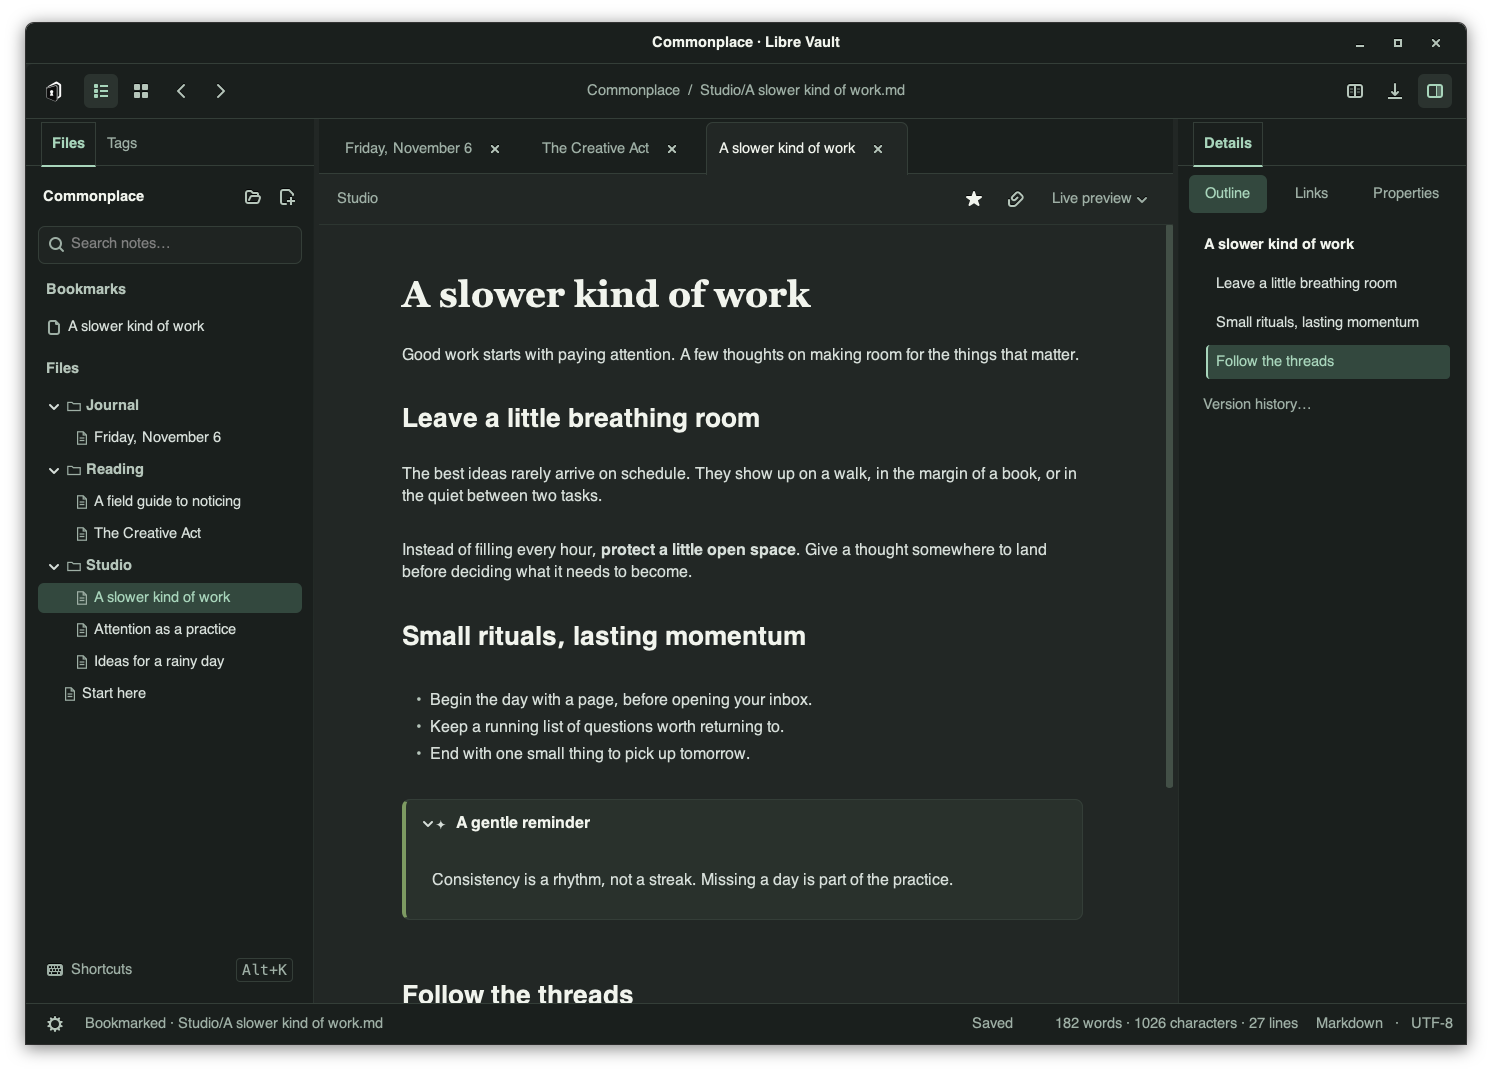
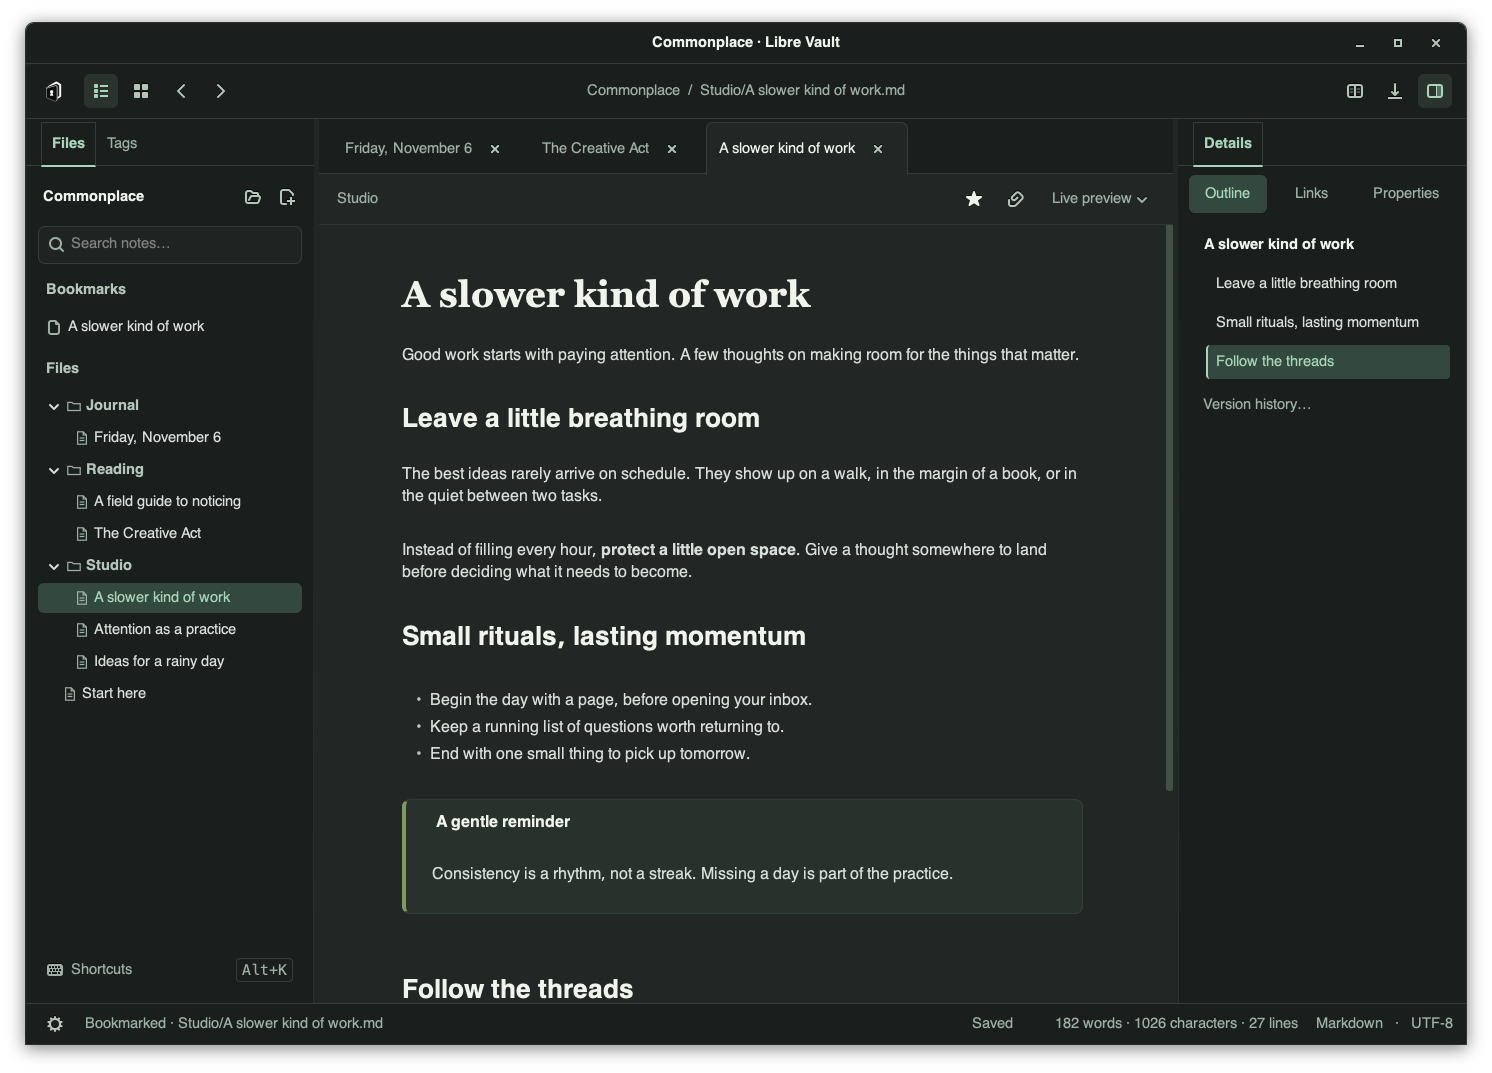
Refine callout titles and refresh UI review captures

Changed region(s): [[0.2775, 0.7996, 0.6475, 0.8304], [0.2775, 0.8919, 0.4316, 0.9534], [0.3083, 0.7381, 0.4008, 0.7689]]

diff --git a/librevault/style.css b/librevault/style.css
@@ -302,7 +302,9 @@ button.icon-button { border-radius: 6px; padding: 5px; }
 .details-combo { margin: 8px 12px 4px; }
 .details-combo button { background: @selected; border-color: transparent; color: @accent; }
 .command-results { padding-right: 8px; }
-.callout expander > title { padding: 2px 0 6px; }
+.callout expander > title { padding: 2px 0; }
+.callout expander > title > arrow:checked { color: transparent; -gtk-icon-shadow: none; }
+.callout expander:hover > title > arrow { color: @soft; }
 .editor-preview .callout expander { background: @raised; }
 .editor-preview .callout label { background: transparent; }
 

diff --git a/librevault/reading.py b/librevault/reading.py
@@ -94,15 +94,8 @@ enable_safe_html(MARKDOWN)
 
 CALLOUT_RE = re.compile(r'^\[!([^\]\n]+)\]([+-])?[ \t]*(.*)$')
 CALLOUT_STYLES = {
-    'note': ('📝', 'callout-note'),
-    'info': ('ℹ', 'callout-info'),
-    'tip': ('✦', 'callout-tip'),
-    'warning': ('⚠', 'callout-warning'),
-    'danger': ('⛔', 'callout-danger'),
-    'example': ('✎', 'callout-example'),
-    'quote': ('❝', 'callout-quote'),
-    'todo': ('☑', 'callout-todo'),
-    'bug': ('🐞', 'callout-bug'),
+    kind: f'callout-{kind}'
+    for kind in ('note', 'info', 'tip', 'warning', 'danger', 'example', 'quote', 'todo', 'bug')
 }
 CALLOUT_ALIASES = {
     'hint': 'tip', 'important': 'tip',
@@ -912,23 +905,18 @@ class ReadingView(Gtk.ScrolledWindow):
     def _install_callout(self, frame, box, matched):
         raw = matched.group(1).strip()
         kind = CALLOUT_ALIASES.get(raw.lower(), raw.lower())
-        icon, css = CALLOUT_STYLES.get(kind, ('•', 'callout-generic'))
+        css = CALLOUT_STYLES.get(kind, 'callout-generic')
         title = matched.group(3).strip() or raw.title()
-        header = Gtk.Box(spacing=10)
-        icon_label = Gtk.Label(label=icon)
-        icon_label.get_style_context().add_class('callout-icon')
-        icon_label.get_accessible().set_name(f'{kind} callout')
         title_label = Gtk.Label(label=title, xalign=0)
         title_label.get_style_context().add_class('callout-title')
         attributes = Pango.AttrList()
         attributes.insert(Pango.attr_weight_new(Pango.Weight.BOLD))
         title_label.set_attributes(attributes)
-        header.pack_start(icon_label, False, False, 0)
-        header.pack_start(title_label, False, False, 0)
         expander = Gtk.Expander()
         expander.set_expanded(matched.group(2) != '-')
-        expander.set_label_widget(header)
+        expander.set_label_widget(title_label)
         expander.get_accessible().set_name(title)
+        expander.get_accessible().set_description(f'{kind} callout')
         style = frame.get_style_context()
         style.add_class('callout')
         style.add_class(css)

diff --git a/tests/test_diagrams_math_media.py b/tests/test_diagrams_math_media.py
@@ -268,9 +268,8 @@ class DiagramReadingTests(unittest.TestCase):
         self.assertFalse(any('Could not render' in label for label in labels))
         frames = [widget for widget in widgets if isinstance(widget, Gtk.Frame)]
         for kind in CALLOUT_STYLES:
-            self.assertTrue(any(f'callout-{kind}' in widget.get_style_context().list_classes()
+            self.assertTrue(any(CALLOUT_STYLES[kind] in widget.get_style_context().list_classes()
                                 for widget in frames), kind)
-            self.assertIn(CALLOUT_STYLES[kind][0], labels)
             self.assertIn(f'{kind.title()} title', labels)
         expanders = {widget.get_accessible().get_name(): widget
                      for widget in widgets if isinstance(widget, Gtk.Expander)}

diff --git a/docs/ui-overhaul/README.md b/docs/ui-overhaul/README.md
@@ -18,13 +18,21 @@ New workspaces default to 12pt note text in a 680px writing column; stored prefe
 
 ## Validation
 
-The first validation pass ran 524 tests through the private Broadway display: 515 passed, one skipped for unavailable language fonts, and eight failed or errored. All eight also fail on the unchanged base revision in the same environment: three filesystem-monitor checks, the trusted-plugin opt-in cancel check, the launcher interpreter/dependency check, the narrow table dialog check, case-sensitive attachment resolution on this case-insensitive filesystem, and the custom-font chooser check. The base additionally fails two compact-panel checks that this overhaul fixes.
+The latest full validation ran 528 tests through the private Broadway display: 518 passed, one skipped for unavailable language fonts, and nine failed or errored. Eight failures/errors also occur in the unchanged base suite: three filesystem-monitor checks, trusted-plugin opt-in cancel, the launcher interpreter/dependency check, the narrow table dialog, case-sensitive attachment resolution on this case-insensitive filesystem, and the custom-font chooser. The ninth is an intermittent GTK hit-testing abort, reproduced with the same GTK byte-index error in one of five targeted runs on both the base and overhaul. The base additionally fails two compact-panel checks that this overhaul fixes.
 
-The focused layout, command, preference, reading, memory, navigation, and test-runner checks pass. The GUI smoke test passes. Native macOS and Linux X11 presentation still need platform validation; these captures validate actual GTK layout and painting on the headless Broadway backend.
+The 36 focused live-preview, reading-renderer, and hit-testing checks pass, as does the GUI smoke test. A regression verifies embedded callout notes survive repeated edits while preserving the document's preview budget. Native macOS and Linux X11 presentation still need platform validation; these captures validate actual GTK layout and painting on the headless Broadway backend.
 
 ## Council review
 
-Round 1: GPT Sol 8.2/10, Gemini 4 Argon 8.1/10, Grok 4.7 7.5/10. The reviewers asked for a compact details selector, clearer typography and text measure, consistent callouts, more useful command results, and preservation of custom fonts and dock controls. Those changes are implemented; fresh review is pending.
+Rounds: 2 completed; round 3 reviews the simplified callout header on the current eight captures.
+
+| Delegate | Round 1 | Round 2 | Round 3 |
+| --- | --- | --- | --- |
+| GPT Sol | 8.2/10 | 9.0/10 | pending |
+| Gemini 4 Argon | 8.1/10 | 9.3/10 | pending |
+| Grok 4.7 | 7.5/10 | 8.6/10 | pending |
+
+Round 1 feedback led to the compact details selector, clearer typography and text measure, consistent callouts, more useful command results, and preservation of custom fonts and dock controls. In round 2, GPT and Gemini approved the visuals; Grok flagged the callout glyph and arrow alignment. The glyph is removed, title padding is balanced, and the open arrow appears only on hover. GPT also found a callout embed budget bug, which is fixed and passed its focused recheck at 9.0/10.
 
 ## Gallery
 
